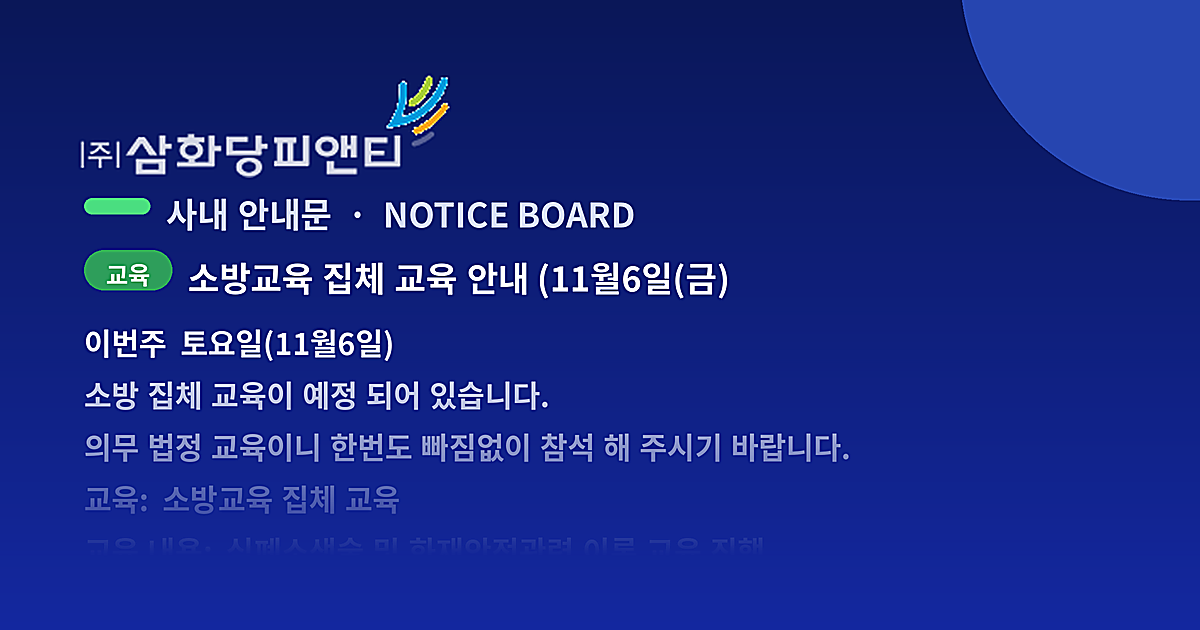
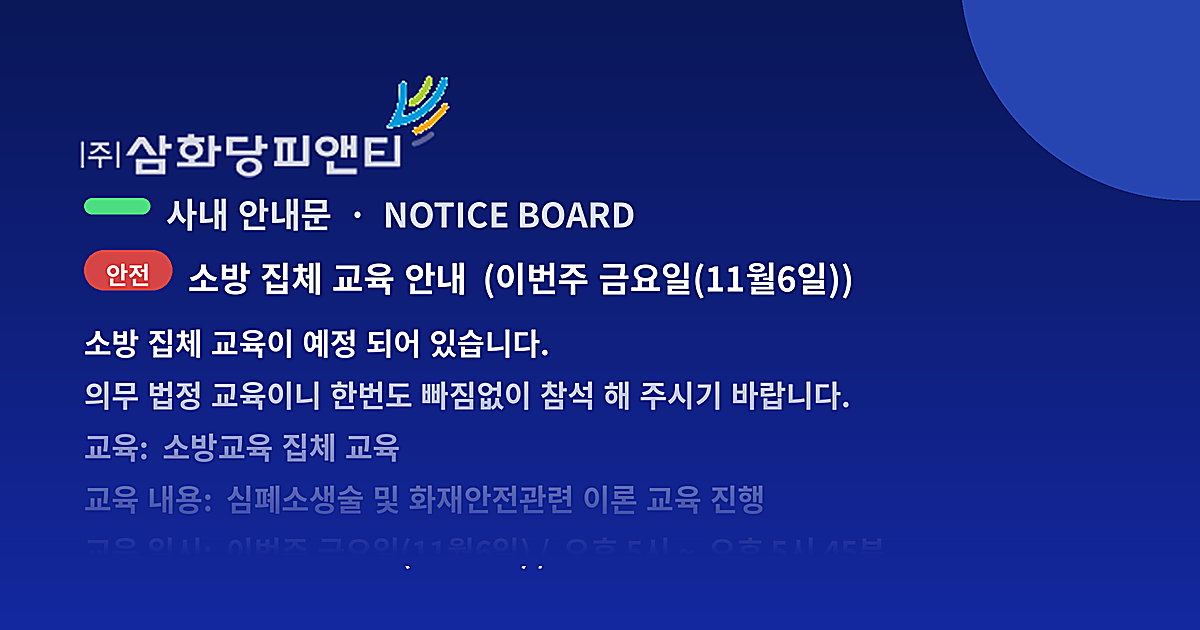
auto: 카톡 미리보기 갱신 [skip ci]

diff --git a/index.html b/index.html
@@ -13,9 +13,9 @@
      ▶ 카드 이미지는 share/og-image.png 입니다. 교체하려면 같은 이름으로 덮어쓰세요. -->
 <meta property="og:type" content="website" />
 <meta property="og:site_name" content="(주)삼화당피앤티 사내 안내문" />
-<meta property="og:title" content="📢 [삼화당피앤티] 소방교육 집체 교육 안내 (11월6일(금)" />
-<meta property="og:description" content="이번주  토요일(11월6일) 소방 집체 교육이 예정 되어 있습니다." />
-<meta property="og:image" content="https://kinof2018-create.github.io/mh4/share/og-image.png?v=3e48766d92" />
+<meta property="og:title" content="📢 [삼화당피앤티] 소방 집체 교육 안내  (이번주 금요일(11월6일))" />
+<meta property="og:description" content="소방 집체 교육이 예정 되어 있습니다. 의무 법정 교육이니 한번도 빠짐없이 참석 해 주시기 바랍니다." />
+<meta property="og:image" content="https://kinof2018-create.github.io/mh4/share/og-image.png?v=14b17a14f5" />
 <meta property="og:image:width" content="1200" />
 <meta property="og:image:height" content="630" />
 <meta property="og:url" content="https://kinof2018-create.github.io/mh4/" />
